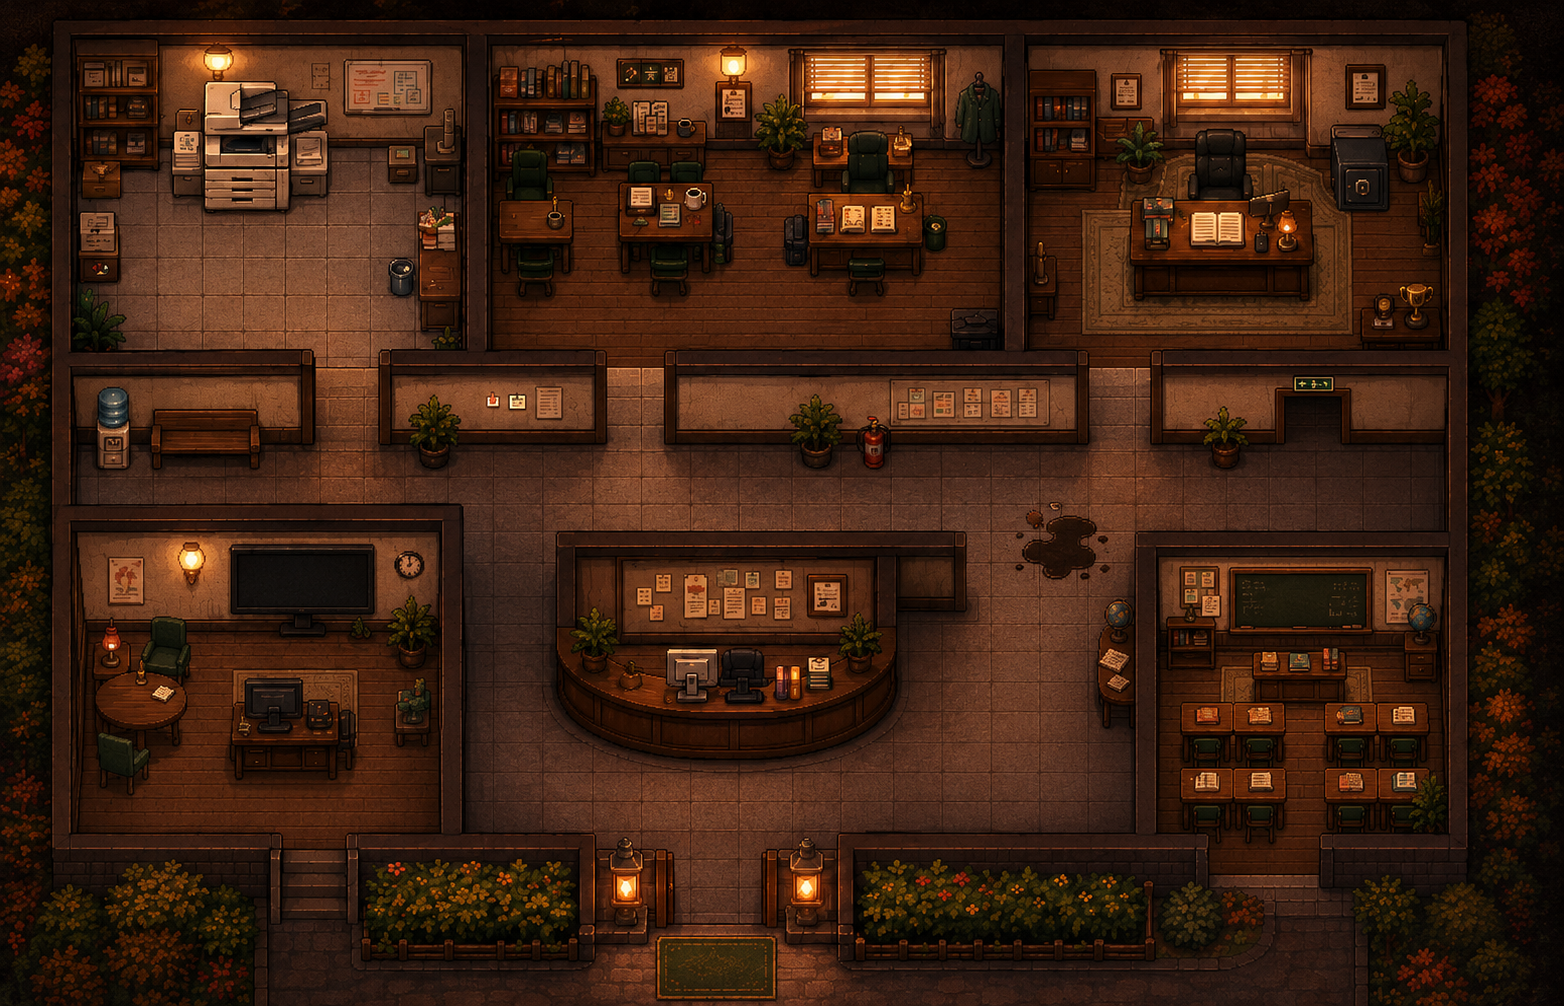
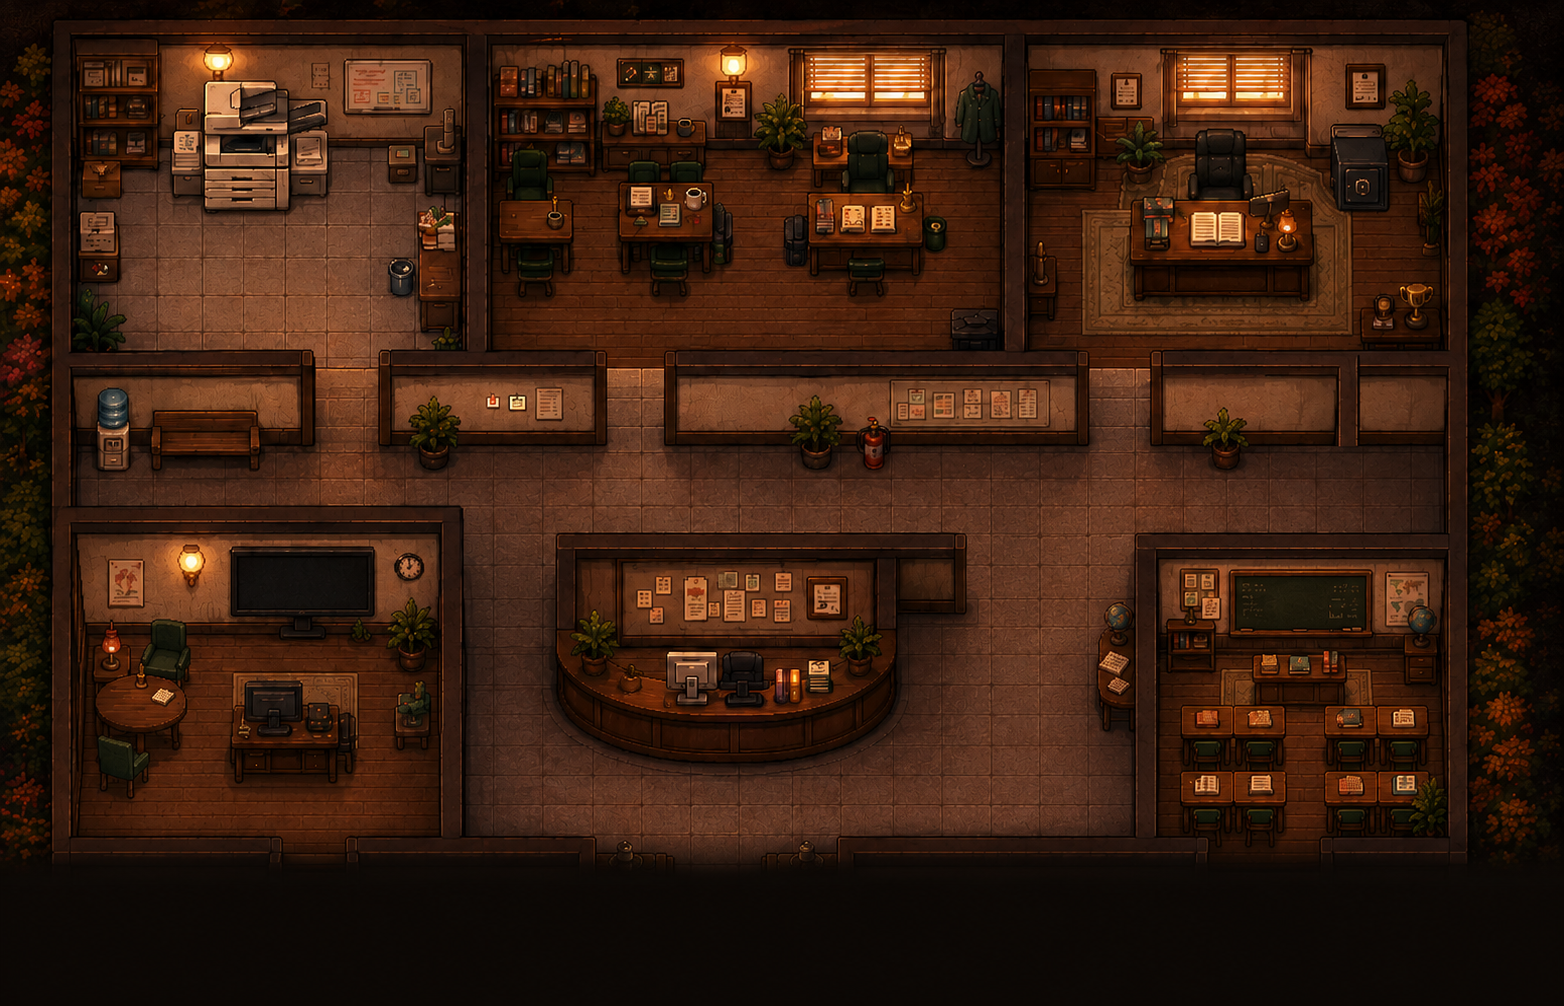
player UI 제작, 타이머 생성, 배경 UI 수정 및 증거 목록 수정

diff --git a/main.py b/main.py
@@ -49,6 +49,10 @@ WIDTH, HEIGHT = 1120, 720
 FPS = 60
 TILE = 32
 
+# 게임 시작(플레이 진입) 후 이 시간이 지나면 추리 제출 화면이 강제로 뜬다.
+# 추리 제출 자체는 이 시간 전에도 언제든 (/) 할 수 있다.
+DEDUCTION_TIMER_SECONDS = 6 * 60
+
 BASE_DIR = os.path.dirname(os.path.abspath(__file__))
 ASSET_DIR = os.path.join(BASE_DIR, "front", "assets")
 BACKGROUND_PATH = os.path.join(ASSET_DIR, "background.png")
@@ -228,7 +232,18 @@ def load_portrait(filename: str, size=(180, 130)) -> pygame.Surface:
         return fallback
 
 
-def load_map_sprite(filename: str, size=(58, 78)) -> pygame.Surface:
+def smoothscale_down(surface: pygame.Surface, size) -> pygame.Surface:
+    """pygame.transform.smoothscale loses alpha when downscaling by a very
+    large factor in one step, so shrink by half repeatedly first."""
+    w, h = surface.get_size()
+    tw, th = size
+    while w > tw * 2 and h > th * 2:
+        w, h = max(tw, w // 2), max(th, h // 2)
+        surface = pygame.transform.smoothscale(surface, (w, h))
+    return pygame.transform.smoothscale(surface, size)
+
+
+def load_map_sprite(filename: str, size=(58, 78), crop: bool = True) -> pygame.Surface:
     path = os.path.join(ASSET_DIR, filename)
 
     if not os.path.exists(path):
@@ -241,6 +256,17 @@ def load_map_sprite(filename: str, size=(58, 78)) -> pygame.Surface:
         image = pygame.image.load(path).convert_alpha()
         width, height = image.get_size()
 
+        if not crop:
+            # Fit the whole image (no cropping/mask/border) into the target
+            # size, preserving aspect ratio, for art that isn't a centered bust.
+            scale = min(size[0] / width, size[1] / height)
+            fit_size = (max(1, round(width * scale)), max(1, round(height * scale)))
+            scaled = smoothscale_down(image, fit_size)
+            sprite = pygame.Surface(size, pygame.SRCALPHA)
+            offset = ((size[0] - fit_size[0]) // 2, (size[1] - fit_size[1]) // 2)
+            sprite.blit(scaled, offset)
+            return sprite
+
         # The current character art is centered in each source image.
         crop_width = min(width, int(width * 0.34))
         crop_height = min(height, int(height * 0.62))
@@ -250,10 +276,10 @@ def load_map_sprite(filename: str, size=(58, 78)) -> pygame.Surface:
         if crop_y + crop_height > height:
             crop_y = height - crop_height
 
-        crop = image.subsurface(
+        crop_surface = image.subsurface(
             pygame.Rect(crop_x, crop_y, crop_width, crop_height)
         ).copy()
-        sprite = pygame.transform.smoothscale(crop, size)
+        sprite = pygame.transform.smoothscale(crop_surface, size)
 
         mask = pygame.Surface(size, pygame.SRCALPHA)
         pygame.draw.rect(
@@ -304,6 +330,8 @@ class GameState:
     notification_until: int = 0
     note_open: bool = False
     selected_note_clue: Optional[str] = None
+    play_started_ticks: Optional[int] = None
+    deduction_forced: bool = False
 
     def add_clue(self, clue_id: str) -> None:
         if clue_id not in self.discovered:
@@ -322,6 +350,9 @@ START_BUTTON_RECT = pygame.Rect(440, 610, 240, 54)
 RETRY_BUTTON_RECT = pygame.Rect(455, 596, 210, 50)
 NOTE_ICON_RECT = pygame.Rect(1060, 50, 40, 40)
 NOTE_CLUE_RECTS: list[tuple[str, pygame.Rect]] = []
+
+# 상단 바에서 질문권 표시와 키 설명 사이, 중앙에 놓이는 추리 제출 타이머/버튼.
+DEDUCTION_BOX_RECT = pygame.Rect(WIDTH // 2 - 105, 7, 210, 26)
 
 
 # ------------------------------------------------------------
@@ -346,16 +377,10 @@ CLUES = {
         "desc": "메모장에 상담실장의 계좌번호가 적혀있다.",
         "tags": ["이찬형 핵심"],
     },
-    "safe_keypad": {
-        "name": "금고 키패드 지문",
-        "location": "원장실",
-        "desc": "금고 키패드에 지문이 거의 남아 있지 않고, 닦아낸 흔적이 있다.",
-        "tags": ["은폐"],
-    },
     "performance_sheet": {
         "name": "성과급 평가표",
         "location": "원장실",
-        "desc": "강사들에 대한 평가와 성과급 기준이 적혀있다. 전국 모의고사 평균, 정예반 유지율, 우수 성적자 비율이 적혀있으며, 기초반 강사에게 불리하다.",
+        "desc": "강사들에 대한 평가와 성과급 기준이 적혀있다.  정예반 강사는 우수 성적자 수가 높아 성과급을 많이 받고, 그에 비해 기초반 강사는 우수 성적자 수가 적어 성과급을 적게 받는다.",
         "tags": ["홍지연 동기처럼 보임"],
     },
     "consult_schedule": {
@@ -459,7 +484,7 @@ MAP_SPRITES = {
     npc_id: load_map_sprite(npc["file"])
     for npc_id, npc in NPCS.items()
 }
-PLAYER_SPRITE = load_map_sprite("chanhyung.png", (52, 72))
+PLAYER_SPRITE = load_map_sprite("player.png", (52, 72), crop=False)
 
 
 # ------------------------------------------------------------
@@ -557,7 +582,7 @@ doors: List[Door] = [
     Door(
         id="door_counsel",
         name="상담실 문",
-        rect=pygame.Rect(337, 493, 15, 66),
+        rect=pygame.Rect(320, 493, 15, 66),
         orientation="vertical",
         room_a="hall",
         room_b="counsel_room",
@@ -566,7 +591,7 @@ doors: List[Door] = [
     Door(
         id="door_classroom",
         name="교실 문",
-        rect=pygame.Rect(799, 493, 15, 66),
+        rect=pygame.Rect(810, 493, 15, 66),
         orientation="vertical",
         room_a="hall",
         room_b="classroom",
@@ -595,7 +620,7 @@ objects: List[Interactable] = [
         "clue",
         "원장실 금고",
         pygame.Rect(980, 85, 75, 85),
-        ["safe_keypad", "safe_open_log"],
+        ["safe_open_log"],
     ),
     Interactable(
         "desk_docs",
@@ -652,6 +677,8 @@ for npc_id, npc in NPCS.items():
 # ------------------------------------------------------------
 player = pygame.Rect(500, 570, 28, 36)
 player_speed = 3.2
+player_facing = "left"  # player.png art faces left by default
+PLAYER_SPRITE_RIGHT = pygame.transform.flip(PLAYER_SPRITE, True, False)
 
 
 # 문 위치는 비워두고, 나머지 벽만 충돌 처리한다.
@@ -662,7 +689,7 @@ walls = [
     pygame.Rect(0, 0, WIDTH, 80),
     pygame.Rect(0, 0, 40, HEIGHT),
     pygame.Rect(WIDTH - 80, 0, 80, HEIGHT),
-    pygame.Rect(0, HEIGHT - 16, WIDTH, 16),
+    pygame.Rect(0, HEIGHT - 100, WIDTH, 100),
 
     # --------------------------------------------------------
     # 상단 세 방의 아래 벽
@@ -681,21 +708,21 @@ walls = [
     # 상담실 외벽
     # 오른쪽 벽의 y=493~559 구간만 문으로 비운다.
     # --------------------------------------------------------
-    pygame.Rect(34, 370, 318, 16),
+    pygame.Rect(34, 370, 300, 16),
     pygame.Rect(34, 370, 16, 258),
-    pygame.Rect(34, 622, 318, 16),
-    pygame.Rect(337, 370, 15, 123),
-    pygame.Rect(337, 559, 15, 79),
+    pygame.Rect(34, 622, 300, 16),
+    pygame.Rect(320, 370, 15, 123),
+    pygame.Rect(320, 559, 15, 79),
 
     # --------------------------------------------------------
     # 교실 외벽
     # 왼쪽 벽의 y=493~559 구간만 문으로 비운다.
     # --------------------------------------------------------
-    pygame.Rect(799, 370, 286, 16),
-    pygame.Rect(799, 370, 15, 123),
-    pygame.Rect(799, 559, 15, 79),
+    pygame.Rect(810, 370, 286, 16),
+    pygame.Rect(810, 370, 15, 123),
+    pygame.Rect(810, 559, 15, 79),
     pygame.Rect(1070, 370, 15, 268),
-    pygame.Rect(799, 622, 286, 16),
+    pygame.Rect(810, 622, 286, 16),
 
     # --------------------------------------------------------
     # 중앙 안내 데스크
@@ -827,8 +854,6 @@ def npc_reply(npc_id: str, message: str, discovered: List[str]) -> str:
             return "금고 비밀번호는 원장님과 저만 알고 있습니다. 다만 누군가 제 컴퓨터나 원장실 자료를 봤다면 가능성이 아예 없진 않겠네요."
         if "발견" in msg or "아침" in msg:
             return "오늘 8시 30분쯤 모의고사 준비를 하려고 금고를 열었는데, 시험지 봉투가 이미 뜯겨 있었습니다."
-        if "지문" in msg or "닦" in msg:
-            return "키패드가 닦여 있었다면 누군가 흔적을 의도적으로 지운 거예요. 단순 실수는 아닌 것 같습니다."
         return "시험지는 분명 어제 원장실 금고에 넣었습니다. 보관 담당자로서 저도 당황스럽습니다."
 
     if npc_id == "juni":
@@ -1072,14 +1097,15 @@ def draw_player() -> None:
         pygame.K_s,
     ))
     bob = int(math.sin(pygame.time.get_ticks() * 0.018) * 2) if moving else 0
-    sprite_rect = PLAYER_SPRITE.get_rect(midbottom=(x, y + 29 + bob))
+    sprite = PLAYER_SPRITE_RIGHT if player_facing == "right" else PLAYER_SPRITE
+    sprite_rect = sprite.get_rect(midbottom=(x, y + 29 + bob))
 
     pygame.draw.ellipse(
         screen,
         COLORS["shadow"],
         (x - 20, y + 12, 40, 12),
     )
-    screen.blit(PLAYER_SPRITE, sprite_rect)
+    screen.blit(sprite, sprite_rect)
 
 
 def draw_collision_debug() -> None:
@@ -1172,6 +1198,54 @@ def draw_pixel_panel(
     pygame.draw.rect(screen, border, rect, 2, border_radius=8)
 
 
+def start_deduction_timer() -> None:
+    """플레이가 시작되는 순간 한 번만 호출해 추리 제출 타이머를 새로 켠다."""
+    state.play_started_ticks = pygame.time.get_ticks()
+    state.deduction_forced = False
+
+
+def deduction_remaining_ms() -> int:
+    if state.play_started_ticks is None:
+        return DEDUCTION_TIMER_SECONDS * 1000
+
+    elapsed = pygame.time.get_ticks() - state.play_started_ticks
+    return max(0, DEDUCTION_TIMER_SECONDS * 1000 - elapsed)
+
+
+def update_deduction_timer() -> None:
+    """제한 시간이 다 되면 추리 제출 화면을 강제로 띄운다.
+    강제로 뜬 뒤에는 ESC로 취소할 수 없다 (submit_judge()로 실제 제출해야 벗어난다)."""
+    if state.deduction_forced or state.play_started_ticks is None:
+        return
+    if deduction_remaining_ms() > 0:
+        return
+    if state.mode in ("judging", "result"):
+        return  # 이미 제출했거나 채점 중이면 강제로 띄우지 않는다.
+
+    state.deduction_forced = True
+    if state.mode != "judge":
+        state.input_text = ""
+        state.composing_text = ""
+        set_mode("judge")
+    state.notify("제한 시간이 종료되어 추리를 제출해야 합니다!", duration_ms=2600)
+
+
+def draw_deduction_timer() -> None:
+    """상단 바 중앙, 질문권 표시와 키 설명 사이에 남은 시간을 표시한다."""
+    box = DEDUCTION_BOX_RECT
+    remaining_s = deduction_remaining_ms() // 1000
+    label = f"남은 시간 {remaining_s // 60:02d}:{remaining_s % 60:02d}"
+    text_color = (255, 150, 120) if remaining_s <= 30 else COLORS["muted"]
+
+    pygame.draw.rect(screen, (30, 22, 18), box, border_radius=6)
+    pygame.draw.rect(screen, COLORS["line"], box, 2, border_radius=6)
+
+    text_w = FONT_SM.size(label)[0]
+    draw_text(
+        screen, label, (box.centerx - text_w // 2, box.y + 5), FONT_SM, text_color,
+    )
+
+
 def draw_note_icon(rect: pygame.Rect) -> None:
     """사건노트 펼치기/접기 아이콘. 눌린 상태(펼침)일 때 살짝 밝게 표시한다."""
     draw_pixel_panel(rect, fill=(48, 33, 24) if state.note_open else (40, 28, 22), shadow=False)
@@ -1205,6 +1279,8 @@ def draw_hud() -> None:
             FONT,
             COLORS["muted"],
         )
+
+    draw_deduction_timer()
 
     draw_text(
         screen,
@@ -2005,6 +2081,8 @@ def draw_judging_window() -> None:
 
 
 def move_player(keys) -> None:
+    global player_facing
+
     dx = 0.0
     dy = 0.0
 
@@ -2016,6 +2094,11 @@ def move_player(keys) -> None:
         dy -= player_speed
     if keys[pygame.K_s]:
         dy += player_speed
+
+    if dx < 0:
+        player_facing = "left"
+    elif dx > 0:
+        player_facing = "right"
 
     if dx and dy:
         dx *= 0.707
@@ -2075,9 +2158,7 @@ def handle_q() -> None:
         set_mode("dialogue")
 
     elif near.kind == "judge":
-        state.input_text = ""
-        state.composing_text = ""
-        set_mode("judge")
+        open_judge_template()
 
 
 def submit_dialogue() -> None:
@@ -2176,6 +2257,8 @@ def retry_game() -> None:
     state.notification_until = 0
     state.note_open = False
     state.selected_note_clue = None
+    state.play_started_ticks = None
+    state.deduction_forced = False
     if dialogue_session is not None:
         dialogue_session.reset()
     for door in doors:
@@ -2229,8 +2312,11 @@ def main() -> None:
             ):
                 if state.mode == "start" and START_BUTTON_RECT.collidepoint(event.pos):
                     set_mode("play")
+                    start_deduction_timer()
                 elif state.mode == "result" and RETRY_BUTTON_RECT.collidepoint(event.pos):
                     retry_game()
+                elif state.mode == "play" and DEDUCTION_BOX_RECT.collidepoint(event.pos):
+                    open_judge_template()
                 elif state.mode != "start" and NOTE_ICON_RECT.collidepoint(event.pos):
                     state.note_open = not state.note_open
                     if not state.note_open:
@@ -2282,6 +2368,10 @@ def main() -> None:
                         state.notify("생각 중입니다. 잠시만 기다려 주세요.")
                         continue
 
+                    if state.mode == "judge" and state.deduction_forced:
+                        state.notify("제한 시간이 종료되어 추리 제출을 취소할 수 없습니다.")
+                        continue
+
                     if state.mode in [
                         "clue",
                         "dialogue",
@@ -2297,6 +2387,7 @@ def main() -> None:
                 elif state.mode == "start":
                     if event.key in (pygame.K_RETURN, pygame.K_SPACE):
                         set_mode("play")
+                        start_deduction_timer()
 
                 elif state.mode == "play":
                     if event.key == pygame.K_q:
@@ -2338,6 +2429,8 @@ def main() -> None:
         if state.mode == "play":
             keys = pygame.key.get_pressed()
             move_player(keys)
+
+        update_deduction_timer()
 
         if state.mode == "start":
             draw_start_screen()

diff --git a/game_engine.py b/game_engine.py
@@ -95,7 +95,6 @@ CLUE_KEYWORDS = {
     "copy_log": ["복사기 로그", "복사기 기록", "스캔 기록", "복사 기록", "복사기 스캔"],
     "white_powder": ["흰 가루", "하얀 가루", "가루가 묻", "유리면"],
     "account_memo": ["계좌 번호", "계좌번호", "계좌 메모", "메모장에"],
-    "safe_keypad": ["금고 키패드", "키패드 지문", "금고 지문", "지문이 닦"],
     "performance_sheet": ["성과급 평가표", "성과급", "평가표"],
     "consult_schedule": ["상담 예약표", "상담예약표", "예약표", "상담 일정", "예약표에 별표"],
     "chalk_box": ["분필통", "분필 통"],
@@ -113,7 +112,6 @@ CLUE_LABELS = {
     "copy_log": "복사기 스캔 기록",
     "white_powder": "복사기 유리면의 흰 가루",
     "account_memo": "계좌 번호 메모장",
-    "safe_keypad": "금고 키패드 지문",
     "performance_sheet": "성과급 평가표",
     "consult_schedule": "상담 예약표",
     "chalk_box": "홍지연 자리의 분필통",

diff --git a/back/score/score.py b/back/score/score.py
@@ -41,7 +41,7 @@ CASE_CONFIG: Dict[str, Any] = {
   시험장에만 있었고 시험지 내용은 몰랐어요."
 - 이찬형(상담실장): "학부모 상담 준비 때문에 아침에 일찍 왔어요. 시험지에는 관심도 없어요."
 
-[조사 단서]
+[조사 단서] 
 - 인쇄실 복사기에는 밤 10시 30분과 새벽 3시 20분의 스캔 기록이 남아 있다.
   복사기 유리면 가장자리에는 흰 가루가 묻어 있다.
 - 강의 시간표에는 홍지연의 수업이 밤 10시 30분에 끝난다고 적혀 있고,
